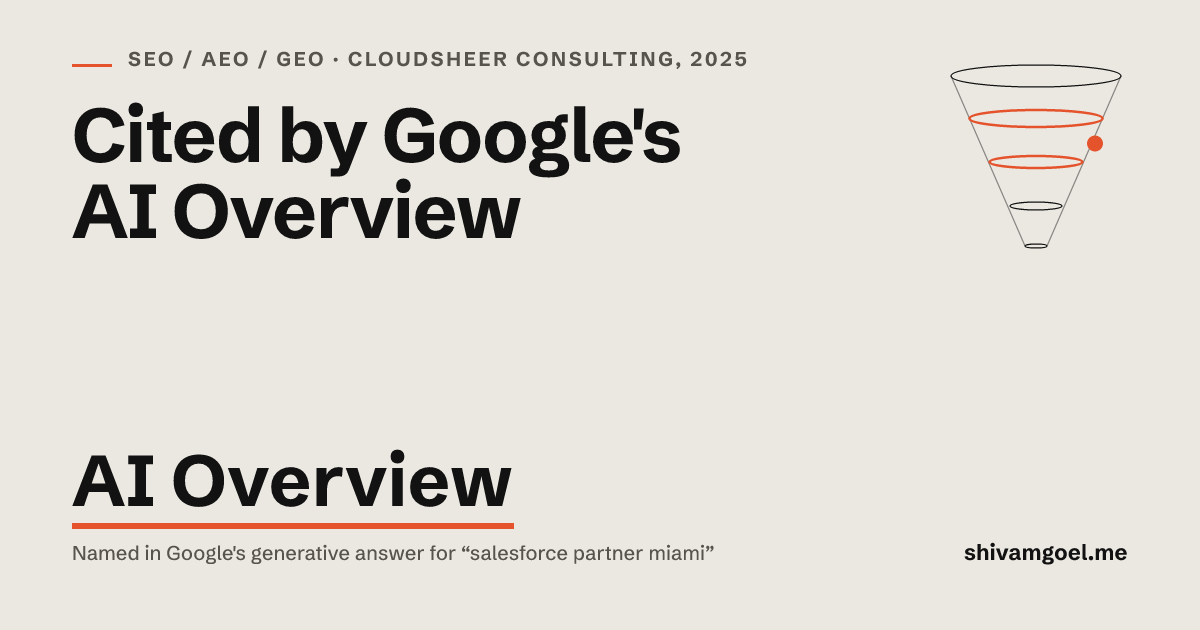
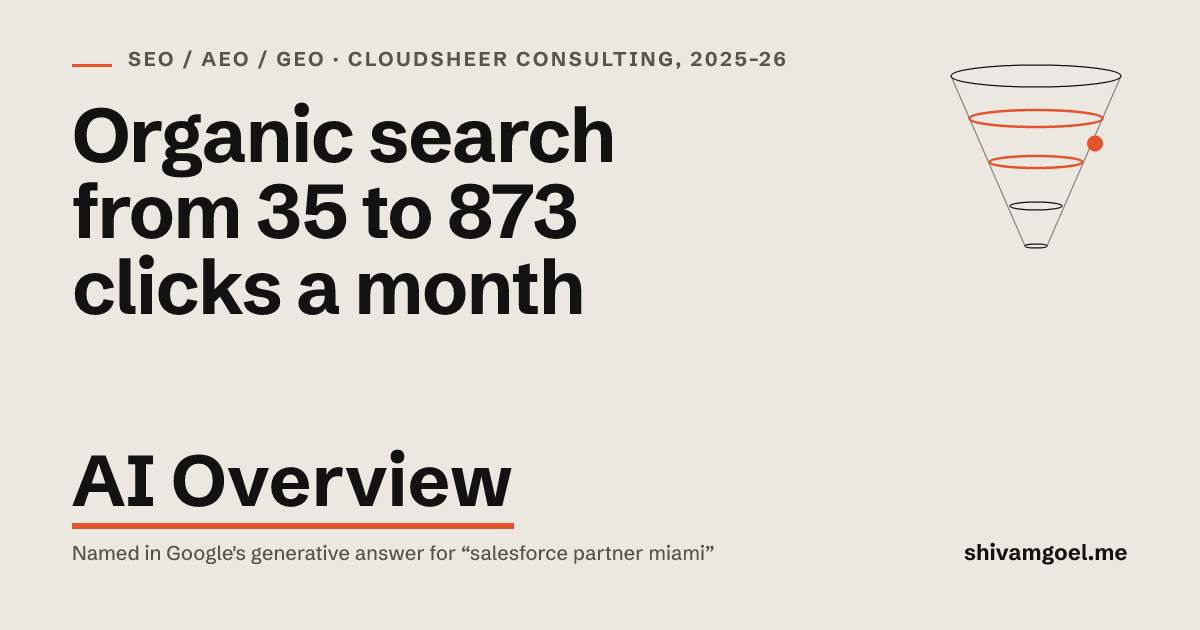
Add Cloudsheer search results and the lead pipeline case study
Monthly clicks chart, 35 to 873 clicks and 857 to 73k impressions from
the Search Console dossier, and a new case study on the conversion system.

Changed region(s): [[0.0617, 0.1508, 0.5858, 0.5127], [0.6167, 0.0905, 0.6475, 0.1206]]

diff --git a/src/content/caseStudies.ts b/src/content/caseStudies.ts
@@ -71,35 +71,36 @@ export const caseStudies: CaseStudy[] = [
   {
     id: "aeo-geo",
     verified: true,
-    title: "Cited by Google's AI Overview",
+    title: "Organic search from 35 to 873 clicks a month",
     tag: "SEO / AEO / GEO",
-    timeframe: "2025",
+    timeframe: "2025–26",
     org: "Cloudsheer Consulting",
     link: {
       href: "https://www.cloudsheer.com/salesforce-consultant-miami",
       label: "cloudsheer.com/salesforce-consultant-miami",
     },
     summary:
-      "I built Cloudsheer's site from nothing and owned its search strategy. It now ranks first organically for “salesforce partner miami” and is named directly inside Google's AI Overview for the same query, which is the outcome AEO is actually for.",
+      "I built Cloudsheer's site from nothing and ran its search program. Organic clicks went from 35 a month in May 2026 to 873 in September, impressions from 857 to 73k, and Google's AI Overview names the site for “salesforce partner miami”.",
     context:
-      "Salesforce implementation is expensive to buy keywords in, and buyers increasingly ask an assistant instead of scrolling. If the AI Overview names two firms, the third blue link is invisible. The target was never a position. It was being the source the answer is built from.",
+      "Salesforce implementation is expensive to buy keywords in, and buyers increasingly ask an assistant instead of scrolling. If the AI Overview names two firms, the third blue link is invisible. The target was never a position. It was being the source the answer is built from, and then turning the traffic into booked calls.",
     built: [
-      { step: "The site, from zero", detail: "Architecture, pages and copy. Not an optimisation pass on someone else's build." },
-      { step: "An entity layer in structured data", detail: "Organization · WebSite · ProfessionalService · BreadcrumbList" },
-      { step: "FAQPage schema on the money pages", detail: "An engine assembling an answer wants a question paired with a liftable answer" },
-      { step: "Headings as the questions buyers ask", detail: "Each section is a clean extract, not a paragraph to summarise" },
-      { step: "Geo pages for Miami and South Florida", detail: "The bilingual angle stated plainly enough to quote. That is the line the AI Overview used." },
-      { step: "Referral tracking", detail: "Separates AI-browser traffic from conventional organic, so the effect is measured" },
+      { step: "The site, from zero", detail: "295 routes prerendered to static HTML, 610 JSON-LD blocks, a markdown copy of every page for AI agents" },
+      { step: "An audit loop on API data", detail: "Seven full audits, each a ranked action list, every fix re-measured against its own baseline" },
+      { step: "SERP teardowns for stuck pages", detail: "Read the actual page-one competitors, rebuilt to beat them. Miami reached position 2.2 on its money query" },
+      { step: "Unique answers instead of templates", detail: "10 integration guides shared boilerplate FAQs and stayed unindexed. Rewritten per tool, 10 of 10 flipped" },
+      { step: "Indexing as an operation", detail: "URL Inspection sweeps of the full sitemap, diffed against a baseline. 270 of 294 pages indexed" },
+      { step: "Content that owns a news cycle", detail: "The Claudeforce cluster went live within days of the announcement and took 67% of site clicks at its peak" },
+      { step: "Page speed", detail: "106 routes code-split, main bundle down 87%, mobile LCP from 9.4s to 4.3s" },
     ],
-    // Search Console figures are for the cloudsheer.com property,
-    // 29 May – 28 Aug 2026. Average CTR is deliberately not reported here.
+    // Search Console API, sc-domain:cloudsheer.com. Monthly figures are
+    // calendar months of 2026; the page-one count is the 28 days to 17 Nov.
     outcomes: [
       { value: "AI Overview", label: "Named in Google's generative answer for “salesforce partner miami”" },
-      { value: "#1", label: "Organic result for the same commercial query" },
-      { value: "68.7k", label: "Search impressions in three months" },
-      { value: "11,062", label: "Impressions in a single day at peak, from a ~1.5k baseline" },
+      { value: "35 → 873", label: "Organic clicks a month, May to September 2026" },
+      { value: "857 → 73k", label: "Search impressions a month, May to August 2026" },
+      { value: "17+", label: "Queries holding page one, including position 1.2 for “claudeforce vs agentforce”" },
     ],
-    stack: ["Schema.org", "FAQPage", "Local SEO", "Content architecture", "GA4"],
+    stack: ["Schema.org", "FAQPage", "Search Console API", "URL Inspection API", "Vite SSR", "Lighthouse", "GA4"],
     reflection:
       "The thing that moved the needle was not writing more, it was writing shorter. Every claim that got picked up was a sentence that survives being lifted out of its paragraph and still makes sense on its own. Long, hedged prose ranks fine and never gets quoted.",
     figures: [
@@ -109,6 +110,13 @@ export const caseStudies: CaseStudy[] = [
         h: 302,
         diagram: true,
         caption: "The FAQPage step is the one that matters: an answer engine wants a question paired with a liftable answer.",
+      },
+      {
+        src: "cloudsheer-clicks.svg",
+        w: 648,
+        h: 280,
+        diagram: true,
+        caption: "Organic clicks by month on cloudsheer.com, from Search Console. The AI Overview citation landed on 27 August; September is the peak.",
       },
       {
         src: "cloudsheer-ai-overview.png",
@@ -126,6 +134,34 @@ export const caseStudies: CaseStudy[] = [
           "Search Console, 29 May – 28 Aug 2026: 68.7k impressions, with the step-change at the end of August.",
       },
     ],
+  },
+  {
+    id: "cloudsheer-conversion",
+    title: "A lead pipeline that cannot drop a lead",
+    tag: "Conversion / RevOps",
+    timeframe: "2026",
+    org: "Cloudsheer Consulting",
+    summary:
+      "Once search was bringing people in, I built the system that turns a visit into a booked call: capture on 96 pages, every lead written to three places, and a Claude-powered assistant held to eleven rules. Shipped in four phases without losing a single top-20 commercial ranking.",
+    context:
+      "Traffic that does not convert is a vanity number. The site had one contact form and a mail provider nobody had tested. The job was to put a sensible next step in front of every visitor, make sure no submission could vanish, and measure which asset produced which lead.",
+    built: [
+      { step: "Capture everywhere", detail: "9 form types across 96 pages: lead magnets with 4 branded PDFs, calculator estimates, quote and prototype requests, a quiz" },
+      { step: "Every lead written three times", detail: "Google Sheet as the source of truth, Salesforce Web-to-Lead with a per-asset lead source, and an inbox alert" },
+      { step: "A silent failure, found and fixed", detail: "A 9-submission live test matrix showed the mail provider dropping relayed email while reporting success. Alerts moved browser-side, same day" },
+      { step: "Booking at the moment of intent", detail: "Every form's success state offers the 30-minute call, instead of a thank-you page" },
+      { step: "A proof layer", detail: "Clutch 5.0 badges, a named review strip on money pages, a case-study hub that invites checking every claim" },
+      { step: "An AI concierge with guardrails", detail: "Claude-powered, 11 rules: scope lock, injection resistance, no fabrication. Each verified against real transcripts" },
+      { step: "Measurement", detail: "GA4 generate_lead events tagged by asset and page, Clarity recordings loaded after interaction to protect speed" },
+    ],
+    // Mechanism figures only. Lead volumes are not published here.
+    outcomes: [
+      { value: "96", label: "Pages with lead capture, across 9 form types" },
+      { value: "3", label: "Places every lead is written: Sheets, Salesforce, inbox" },
+      { value: "11", label: "Guardrails on the AI concierge, each tested live" },
+      { value: "0", label: "Top-20 commercial rankings lost during the rollout" },
+    ],
+    stack: ["Salesforce Web-to-Lead", "Google Sheets", "Claude API", "GA4", "Microsoft Clarity", "Puppeteer"],
   },
   {
     id: "mintnovalabs",

diff --git a/src/content/profile.ts b/src/content/profile.ts
@@ -64,6 +64,8 @@ export const experience = [
       "Automated end-to-end lead generation, improving outreach efficiency and pipeline scalability.",
       "Led LinkedIn growth and brand positioning for inbound opportunities.",
       "Implemented AEO and GEO strategies, growing traffic from AI browsers and generative search by 15%.",
+      "Grew organic search from 35 to 873 clicks a month (May to September 2026) and impressions from 857 to 73k a month; named in Google's AI Overview for “salesforce partner miami”.",
+      "Built the lead pipeline: capture on 96 pages, every lead written to Sheets, Salesforce and the inbox, and a Claude-powered site assistant with 11 tested guardrails.",
       "Launched Descipher OS: GTM strategy, positioning, messaging and digital presence from inception.",
       "Opened the Middle East market: demand identification, entry strategy, early partnerships.",
     ],
